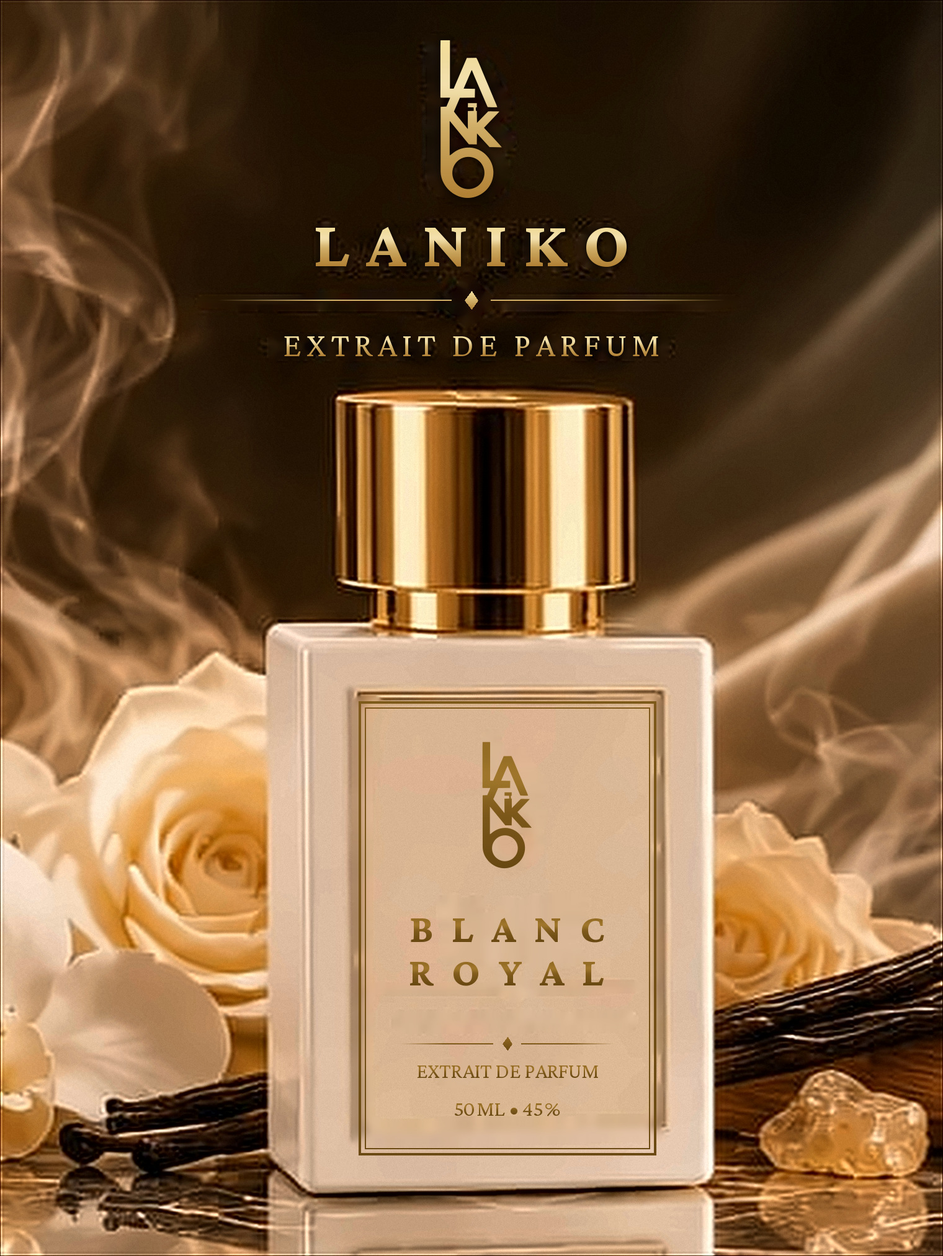
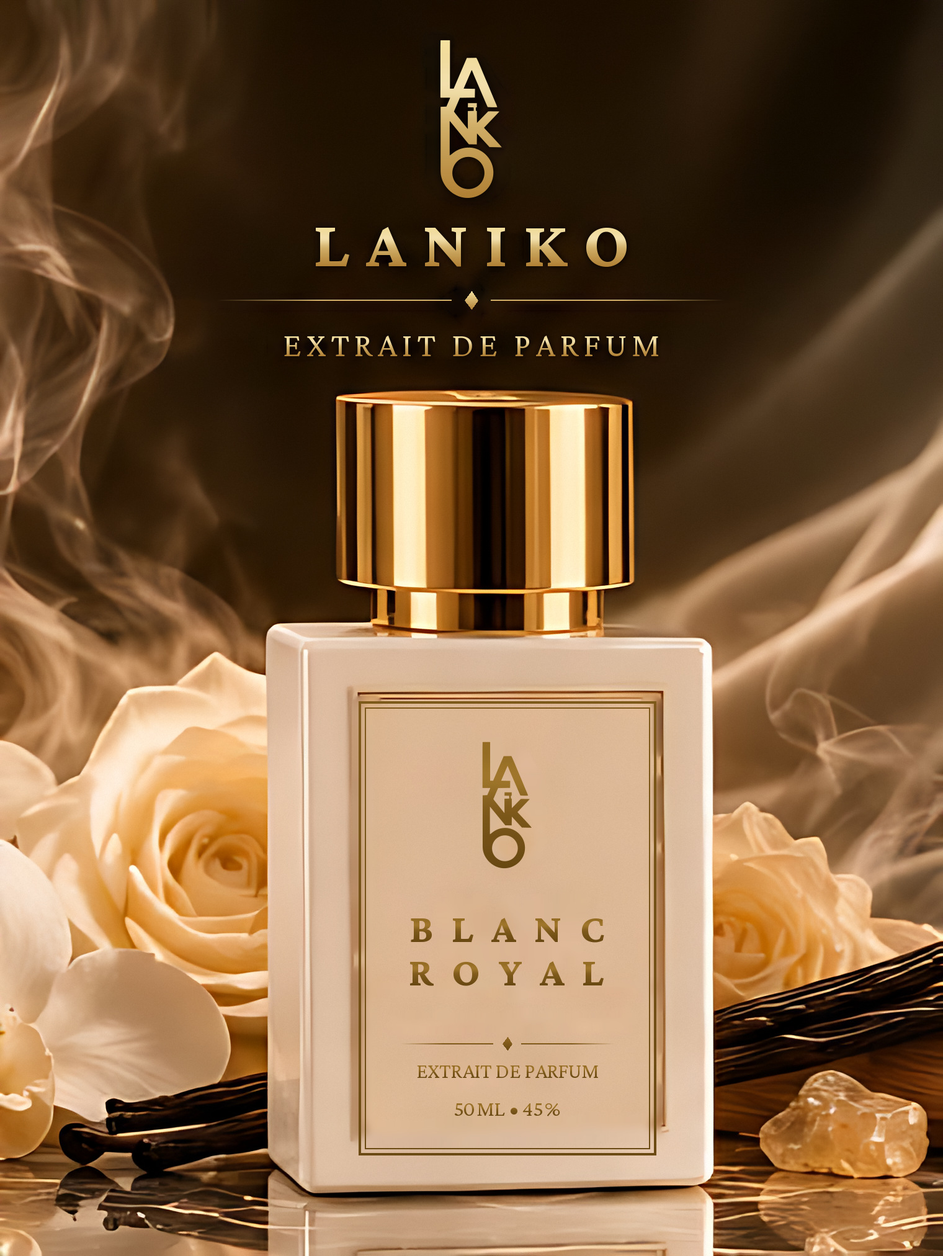
Real-ESRGAN upscaled photos (4x), much stronger smoke animation (ignores reduced-motion), higher-res 3D label and geometry
Claude-Session: https://claude.ai/code/session_01UcqBSTGGdYJCsLfUZ3upKN

diff --git a/viewer.js b/viewer.js
@@ -29,7 +29,7 @@ const LOGO_PATH = "M7.62 674L66 671.27L103.11 585L100 582L9 582L5.57 579C5.56 57
 const LOGO_W = 631, LOGO_H = 1595;
 let logoPath2D = null;
 
-// Label texture: 1600 x 2327 (same proportions as the printed label).
+// Label texture: 2400 x 3491 on devices that allow it (else 1600 x 2327) (same proportions as the printed label).
 const LABEL_W = 1600, LABEL_H = 2327;
 
 // mode "color": the visible label.
@@ -107,13 +107,14 @@ function drawLabel(product, mode, scale = 1) {
   return c;
 }
 
-function makeLabelMaps(product, anisotropy) {
-  const map = new THREE.CanvasTexture(drawLabel(product, "color"));
+function makeLabelMaps(product, anisotropy, maxTex = 4096) {
+  const big = maxTex >= 4096 ? 1.5 : 1;
+  const map = new THREE.CanvasTexture(drawLabel(product, "color", big));
   map.colorSpace = THREE.SRGBColorSpace;
   map.anisotropy = anisotropy;
-  const orm = new THREE.CanvasTexture(drawLabel(product, "orm", 0.5));
+  const orm = new THREE.CanvasTexture(drawLabel(product, "orm", 0.5 * big));
   orm.anisotropy = anisotropy;
-  const emit = new THREE.CanvasTexture(drawLabel(product, "emit", 0.5));
+  const emit = new THREE.CanvasTexture(drawLabel(product, "emit", 0.5 * big));
   emit.colorSpace = THREE.SRGBColorSpace;
   emit.anisotropy = anisotropy;
   return { map, orm, emit };
@@ -243,7 +244,7 @@ function buildBottle(maps) {
     sheenColor: new THREE.Color(0xfff3dc),
     sheenRoughness: 0.45,
   });
-  const body = new THREE.Mesh(new RoundedBoxGeometry(1.5, 1.9, 1.1, 12, 0.13), glass);
+  const body = new THREE.Mesh(new RoundedBoxGeometry(1.5, 1.9, 1.1, 16, 0.13), glass);
   body.position.y = 0.95;
   g.add(body);
 
@@ -275,11 +276,11 @@ function buildBottle(maps) {
   const goldSoft = new THREE.MeshStandardMaterial({ color: 0xd9b25e, metalness: 1, roughness: 0.2, envMapIntensity: 1.5 });
   const black = new THREE.MeshStandardMaterial({ color: 0x0b0a09, roughness: 0.55, metalness: 0 });
 
-  const collar = new THREE.Mesh(new THREE.LatheGeometry(capProfile(0.38, 0.15, 0.02, 4), 64), goldSoft);
+  const collar = new THREE.Mesh(new THREE.LatheGeometry(capProfile(0.38, 0.15, 0.02, 4), 128), goldSoft);
   collar.position.y = 1.9;
   const gap = new THREE.Mesh(new THREE.CylinderGeometry(0.47, 0.47, 0.035, 64), black);
   gap.position.y = 2.0725;
-  const cap = new THREE.Mesh(new THREE.LatheGeometry(detailedCapProfile(), 160), gold);
+  const cap = new THREE.Mesh(new THREE.LatheGeometry(detailedCapProfile(), 256), gold);
   cap.position.y = 2.09;
   g.add(collar, gap, cap);
   return g;
@@ -412,7 +413,7 @@ export function createBottleViewer(container, product) {
       rim.position.set(5, 3, -4);
       scene.add(key, rim, new THREE.AmbientLight(0xffffff, 0.5));
 
-      const maps = makeLabelMaps(product, renderer.capabilities.getMaxAnisotropy());
+      const maps = makeLabelMaps(product, renderer.capabilities.getMaxAnisotropy(), renderer.capabilities.maxTextureSize);
       rig.add(buildBottle(maps));
 
       // soft contact shadow behind the foot of the bottle
@@ -515,7 +516,7 @@ export function createBottleViewer(container, product) {
       if (bg) {
         bg.draw(0);
         bgCanvas.style.visibility = "visible";
-        if (!reduceMotion) bg.start();
+        bg.start(); // the smoke is the point of this view; it is slow and gentle, so it always runs
       }
     }
   });

diff --git a/smoke-bg.js b/smoke-bg.js
@@ -30,17 +30,22 @@ void main() {
   vec2 uv = vUv;
   float m = texture(uMask, uv).r;
   // slowly wandering direction field: mostly upwards, swirling a little sideways
-  vec2 n1 = texture(uNoise, uv * vec2(1.4, 2.0) + vec2(uTime * 0.006, uTime * 0.010)).rg - 0.5;
-  vec2 n2 = texture(uNoise, uv * vec2(3.1, 4.3) + vec2(uTime * -0.015, uTime * 0.021)).rg - 0.5;
-  vec2 flow = vec2(n1.x * 2.0 + n2.x * 0.8, 0.45 + n1.y * 1.0 + n2.y * 0.5) * uAmp * m;
+  vec2 n1 = texture(uNoise, uv * vec2(1.4, 2.0) + vec2(uTime * 0.012, uTime * 0.020)).rg - 0.5;
+  vec2 n2 = texture(uNoise, uv * vec2(3.1, 4.3) + vec2(uTime * -0.030, uTime * 0.042)).rg - 0.5;
+  vec2 flow = vec2(n1.x * 2.0 + n2.x * 0.8, 0.55 + n1.y * 1.0 + n2.y * 0.5) * uAmp * m;
+  // continuously evolving curl-like wobble so the wisps visibly twist and billow
+  vec2 w = texture(uNoise, uv * vec2(2.2, 3.0) + vec2(uTime * 0.035, -uTime * 0.05)).rg - 0.5;
+  vec2 w2 = texture(uNoise, uv * vec2(5.0, 6.5) + vec2(-uTime * 0.06, uTime * 0.075)).rg - 0.5;
+  vec2 wob = (w * 0.05 + w2 * 0.018) * m;
   // two phases, cross-faded, so the motion never visibly resets
-  float p1 = fract(uTime * 0.085);
-  float p2 = fract(uTime * 0.085 + 0.5);
+  float sp = 0.14;
+  float p1 = fract(uTime * sp);
+  float p2 = fract(uTime * sp + 0.5);
   float w1 = 1.0 - abs(2.0 * p1 - 1.0);
-  vec3 a = texture(uPlate, uv - flow * p1).rgb;
-  vec3 b = texture(uPlate, uv - flow * p2).rgb;
+  vec3 a = texture(uPlate, uv - flow * p1 + wob).rgb;
+  vec3 b = texture(uPlate, uv - flow * p2 + wob).rgb;
   vec3 c = mix(b, a, w1);
-  c *= 1.0 + 0.06 * m * sin(uTime * 0.7 + n1.x * 9.0);
+  c *= 1.0 + 0.10 * m * sin(uTime * 0.9 + n1.x * 9.0);
   outColor = vec4(c, 1.0);
 }`;
 
@@ -82,7 +87,7 @@ function makeNoise(size = 256) {
   return data;
 }
 
-export function createSmokeBackground(canvas, plateImg, maskImg, { amp = 0.05 } = {}) {
+export function createSmokeBackground(canvas, plateImg, maskImg, { amp = 0.16 } = {}) {
   let gl;
   try {
     gl = canvas.getContext("webgl2", { alpha: false, antialias: false, premultipliedAlpha: false, preserveDrawingBuffer: false });
